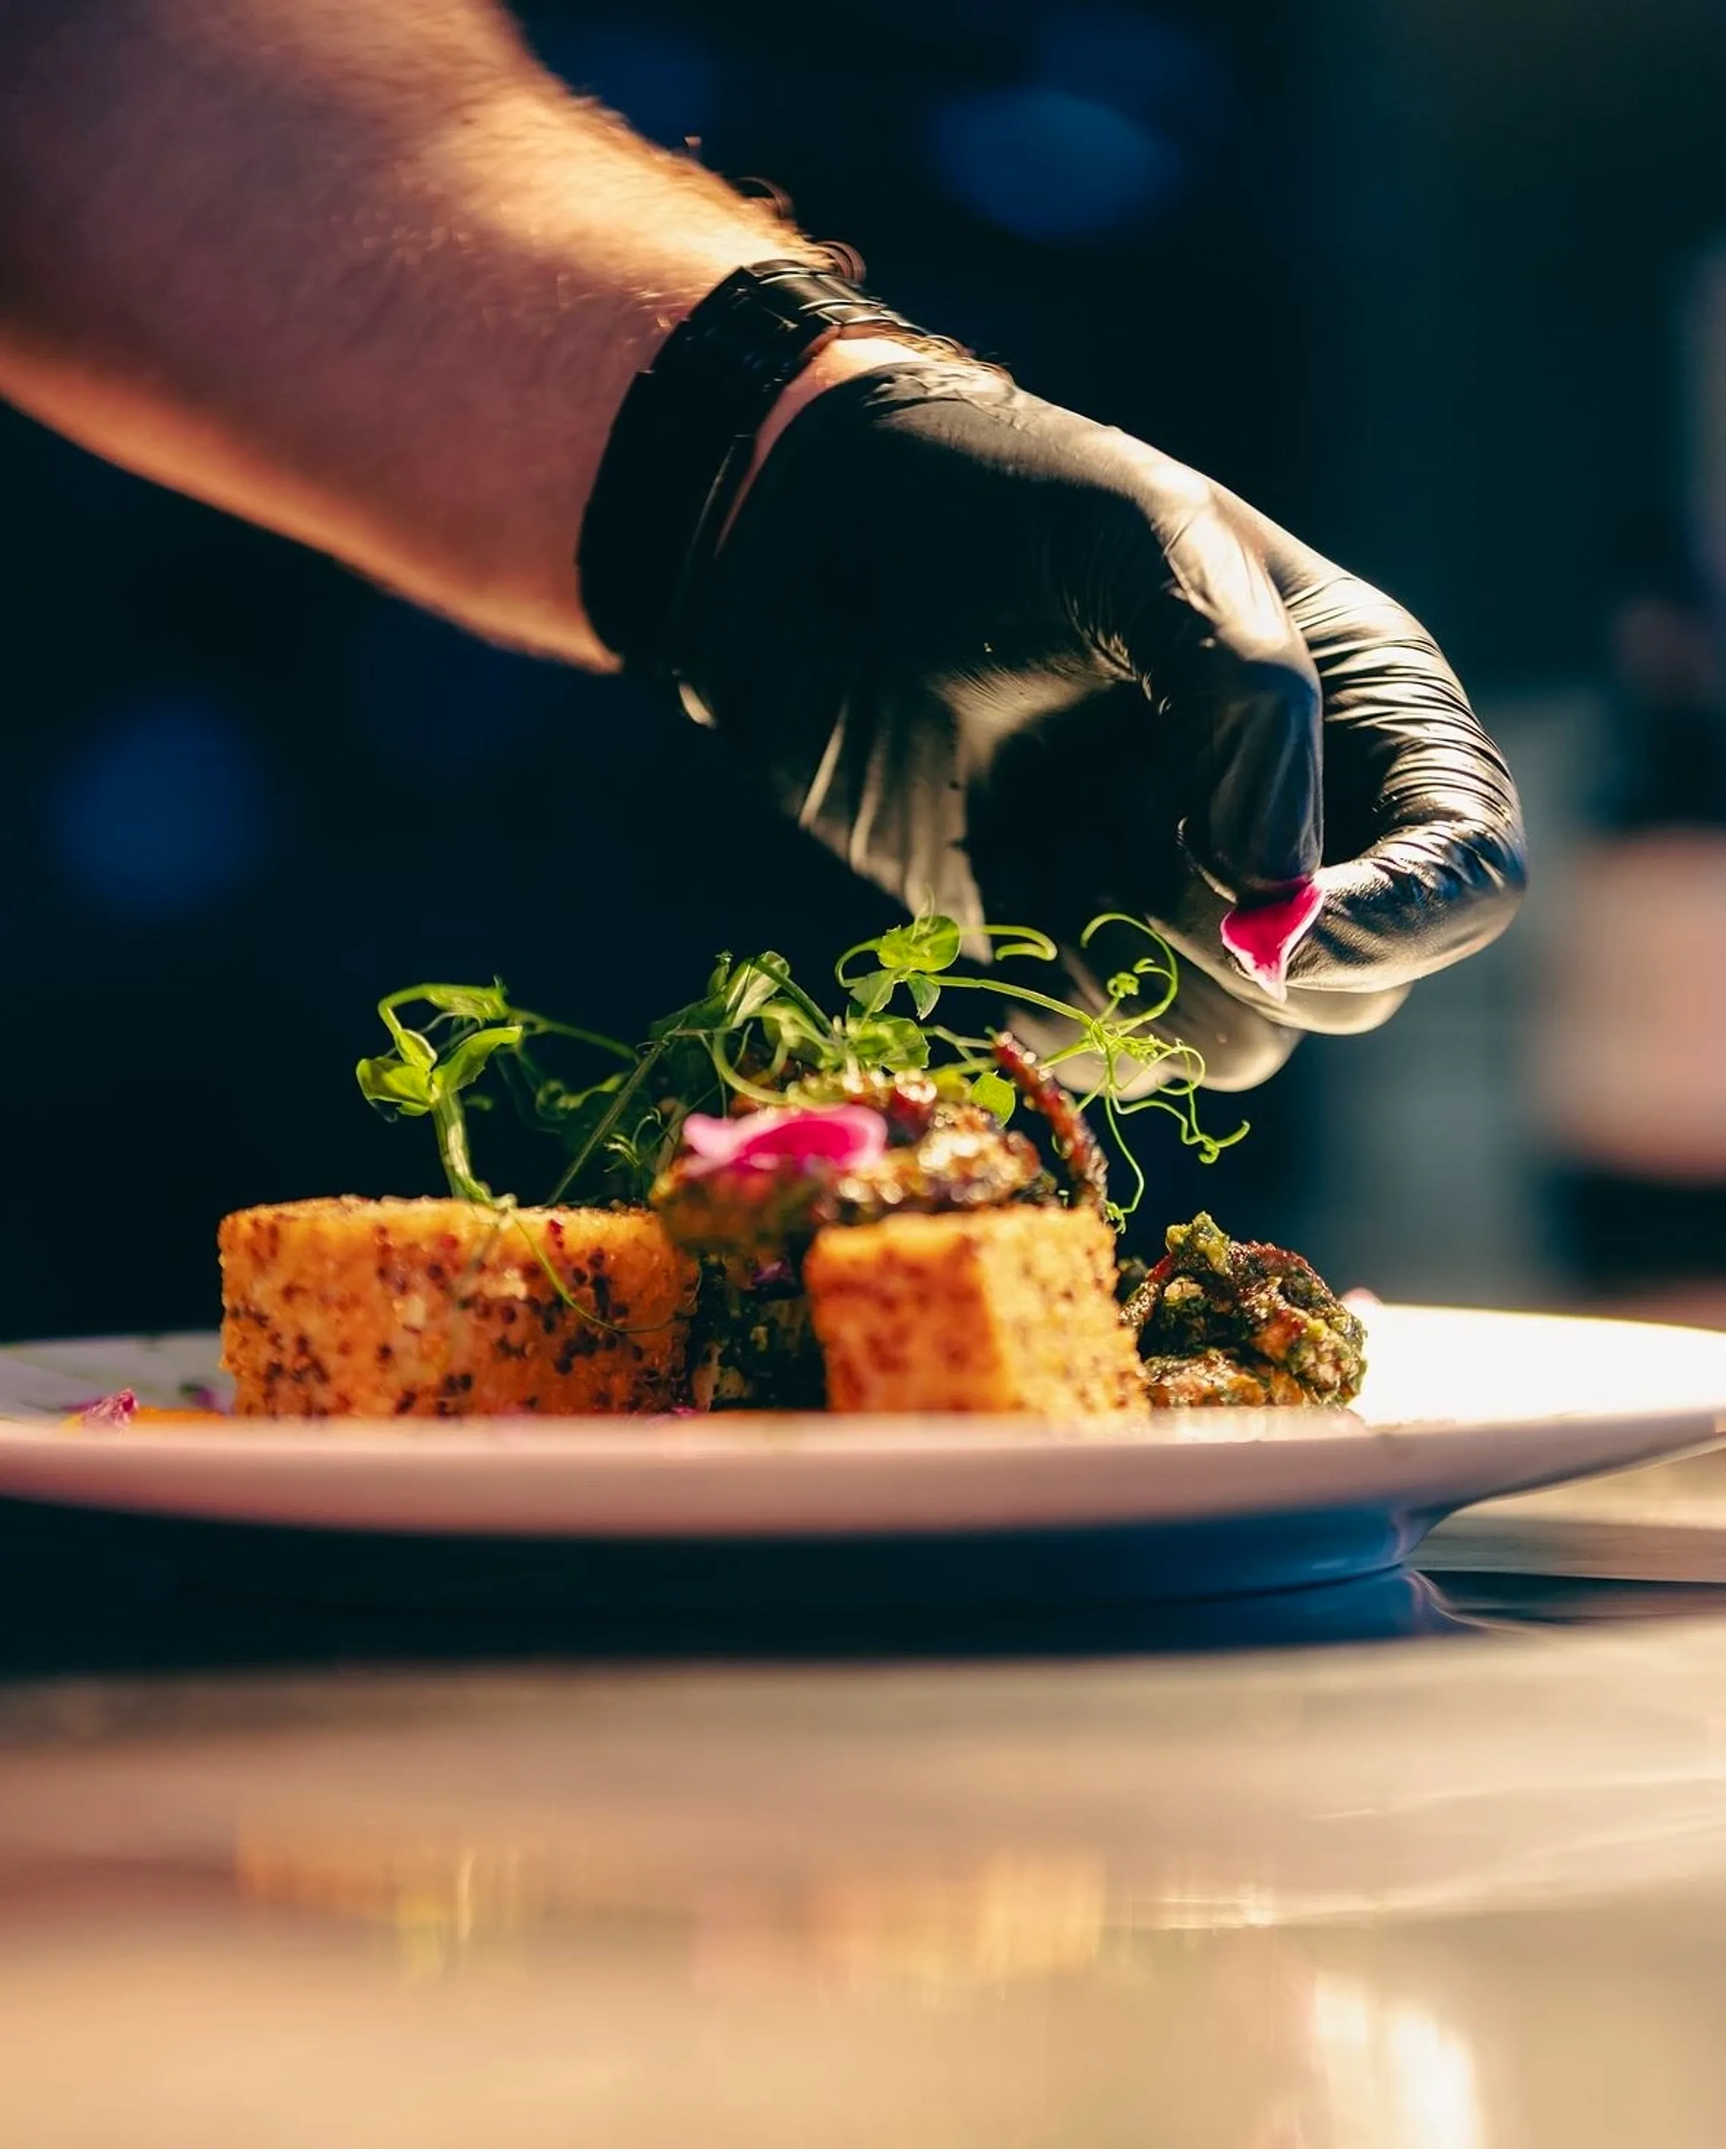
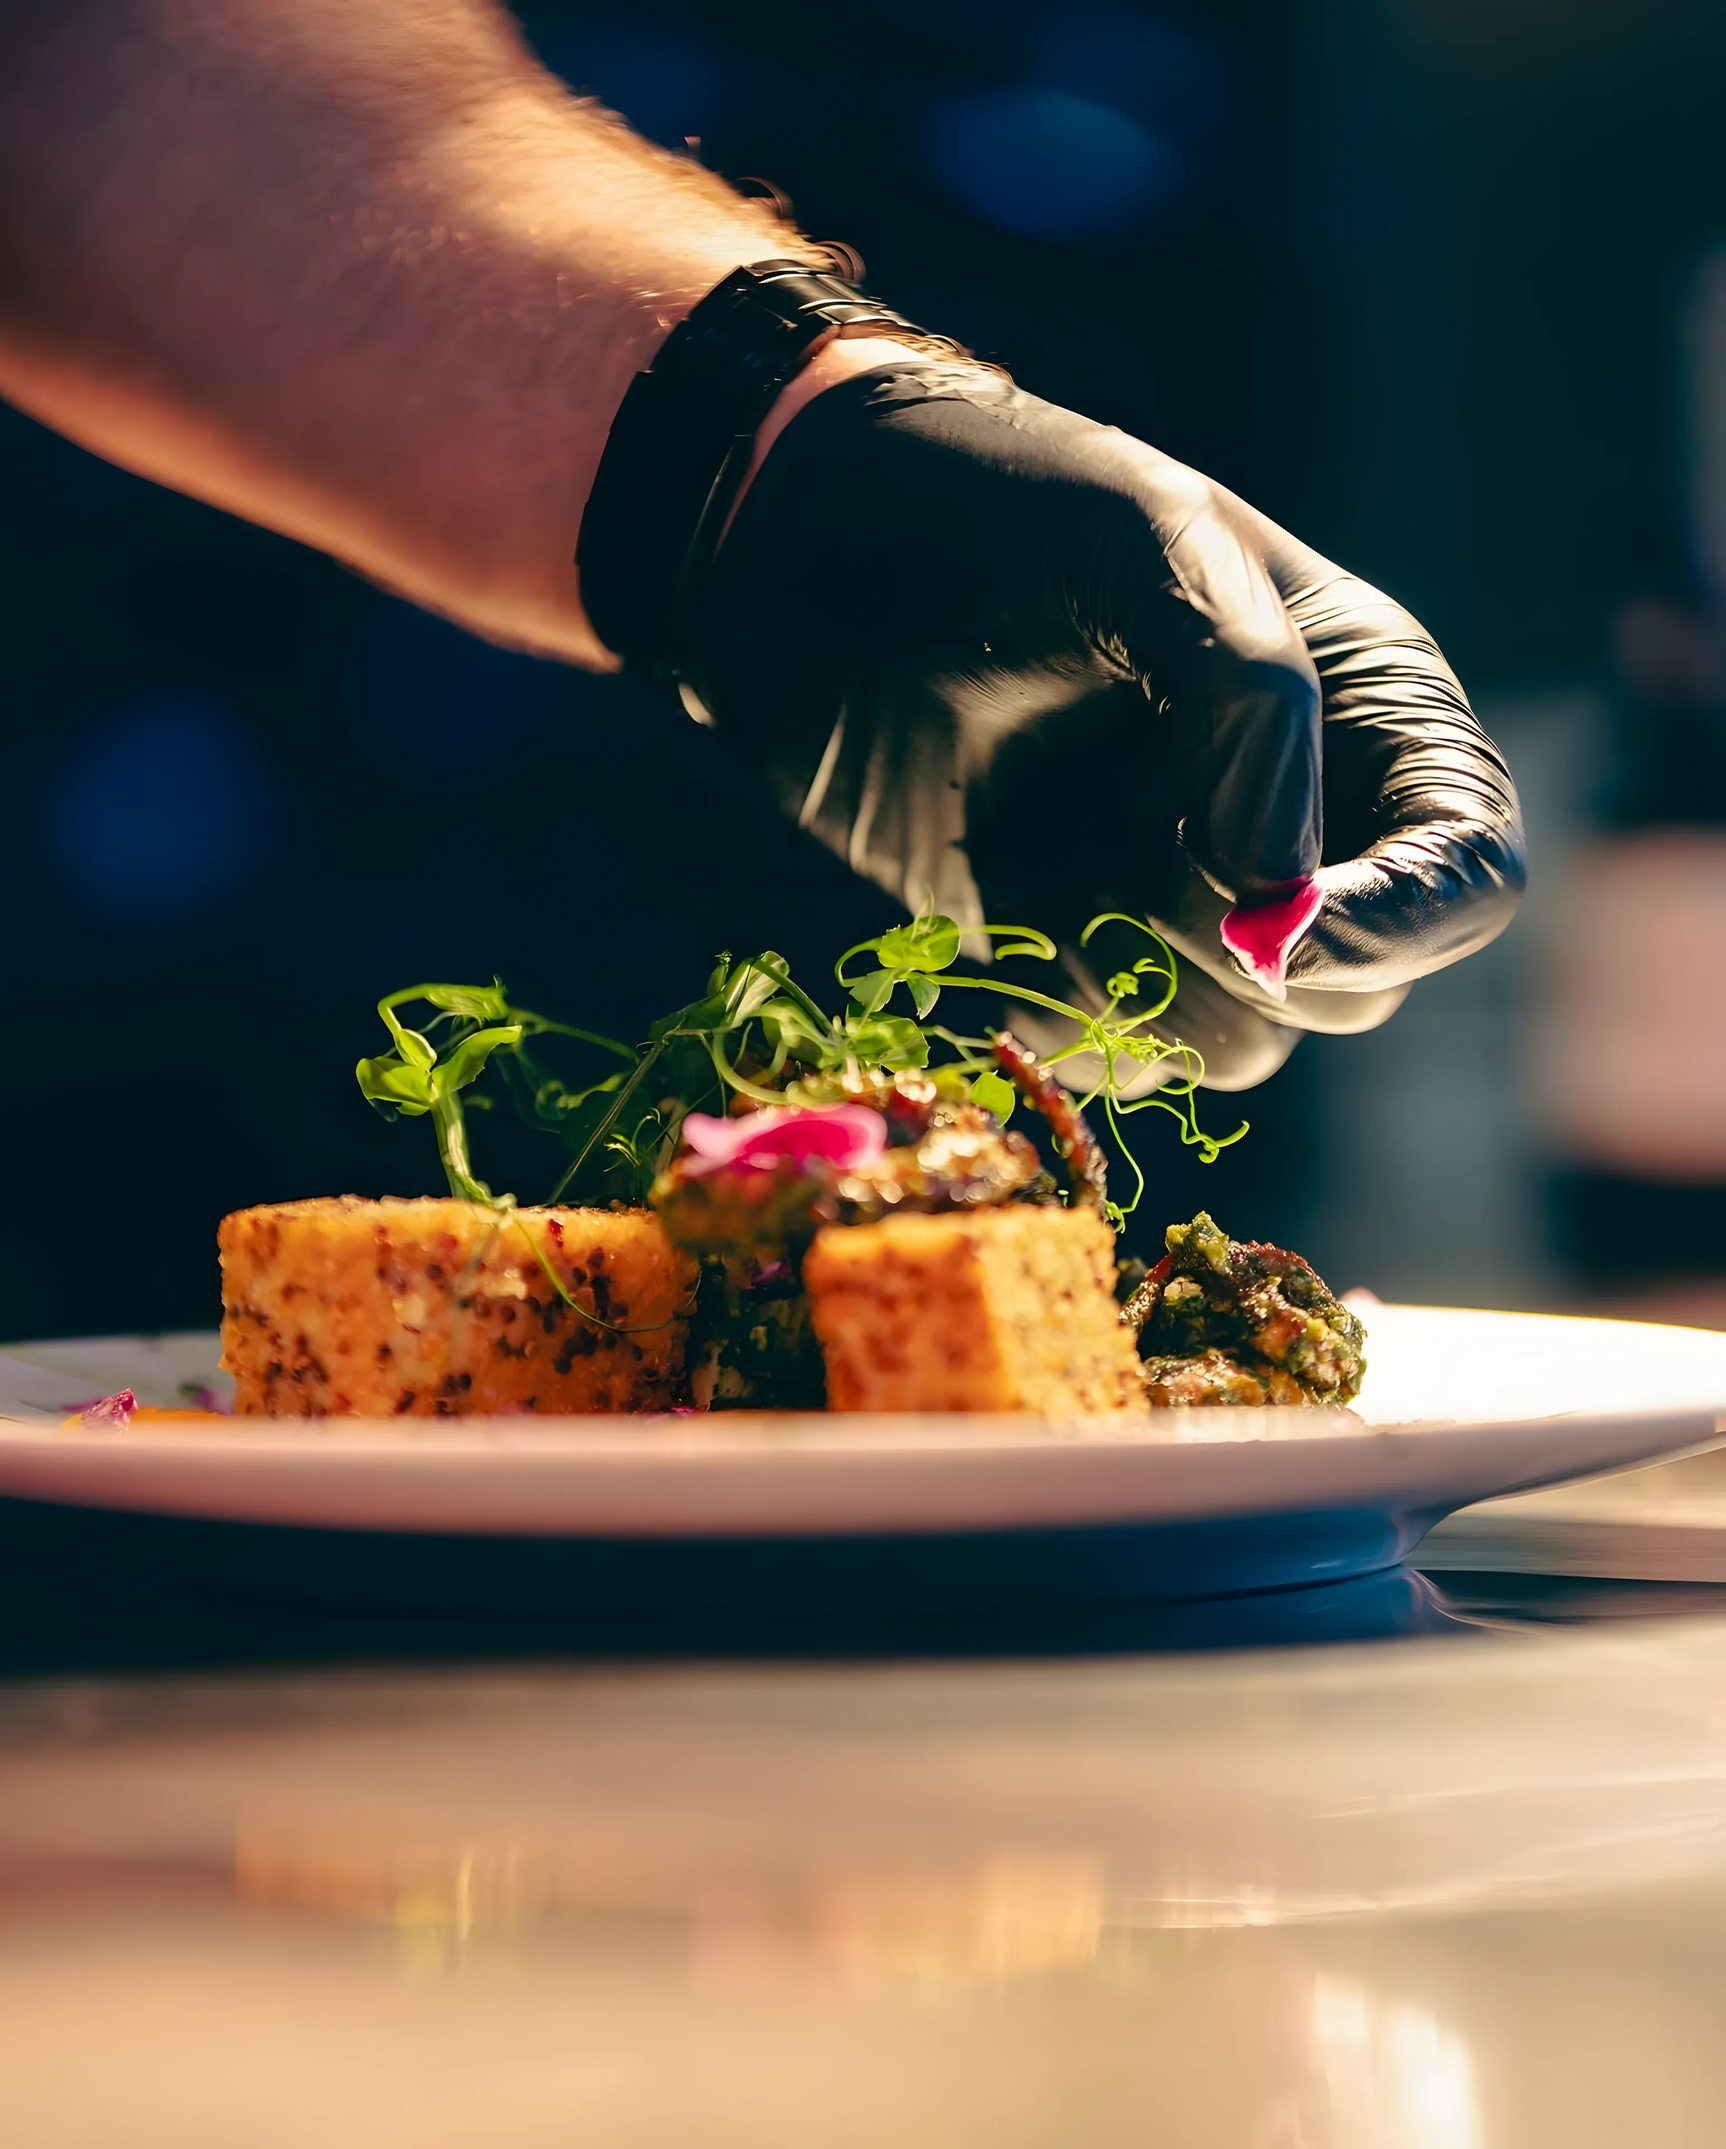
feat(bienvenue): photo agrandie par IA (Real-ESRGAN x4)
L'original ne fait que 1179×1468. Agrandi ×4 par Real-ESRGAN x4plus puis
ramené à 3840 px de haut : pousses et texture nettes, plus de blocs de
compression JPEG, là où l'agrandissement Lanczos restait flou.

Claude-Session: https://claude.ai/code/session_015AvTiGYY1NaYbbBKo4L8Fd

diff --git a/src/components/brand/bootThemes.js b/src/components/brand/bootThemes.js
@@ -2,9 +2,12 @@
  * Photo de l'écran de chargement « Bienvenue » (BootScreen.jsx).
  *
  * `shots` : les photos, dans l'ordre des coupes ; la dernière reste affichée.
- * Choix de Jérémy : une seule photo, le dressage au gant, agrandie en 4K
- * (node scripts/gen-boot-photos.mjs <dossier> --4k ; l'original ne fait que
- * 1179×1468). Remplacer par le fichier d'appareil si on le retrouve.
+ * Choix de Jérémy : une seule photo, le dressage au gant. L'original ne fait
+ * que 1179×1468 : il a été agrandi ×4 par IA (Real-ESRGAN x4plus, modèle
+ * realesrgan-ncnn-vulkan), puis ramené à 3840 px de haut, saturation ×1,03,
+ * WebP qualité 86. Nettement plus net que l'agrandissement classique de
+ * scripts/gen-boot-photos.mjs --4k. Remplacer par le fichier d'appareil si
+ * on le retrouve.
  *
  * BOOT_THEMES reste une liste pour pouvoir remettre une rotation
  * hebdomadaire plus tard, en ajoutant des entrées.
